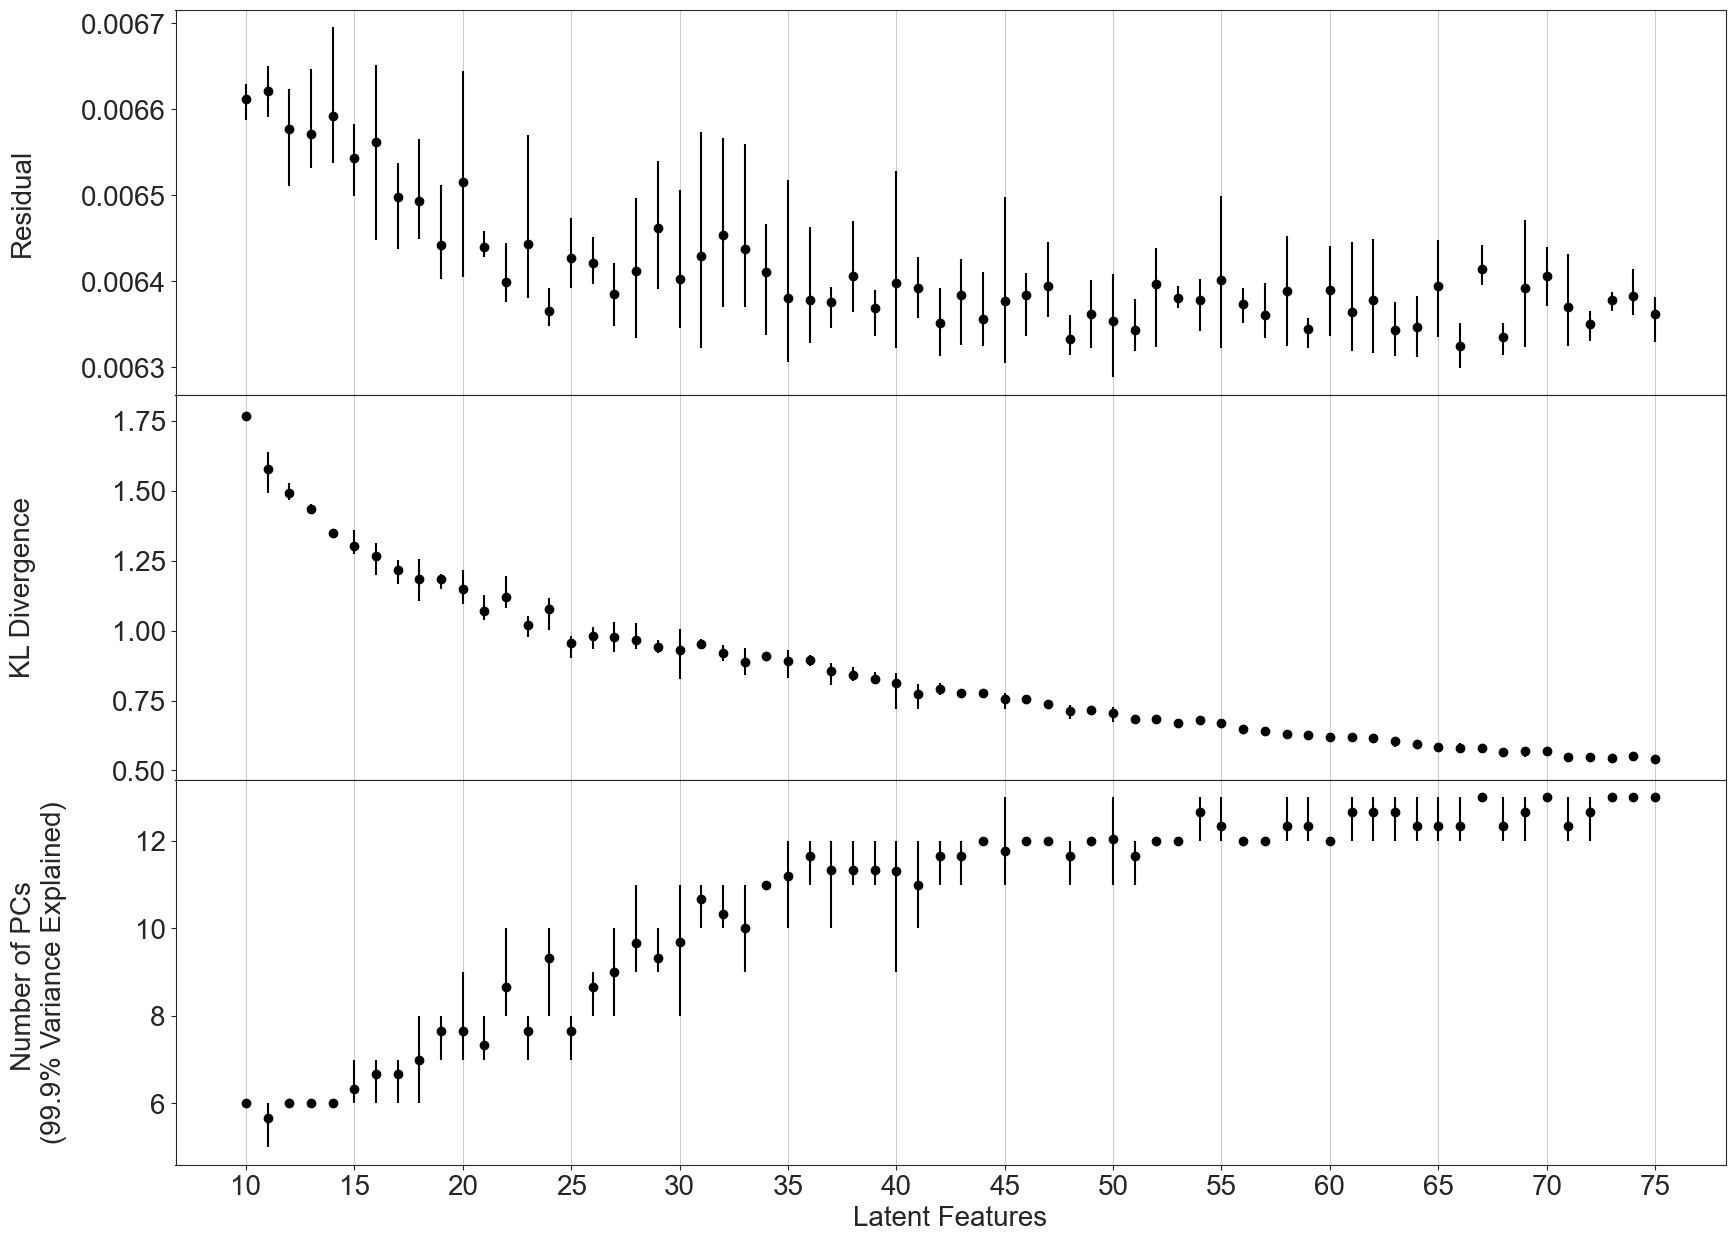
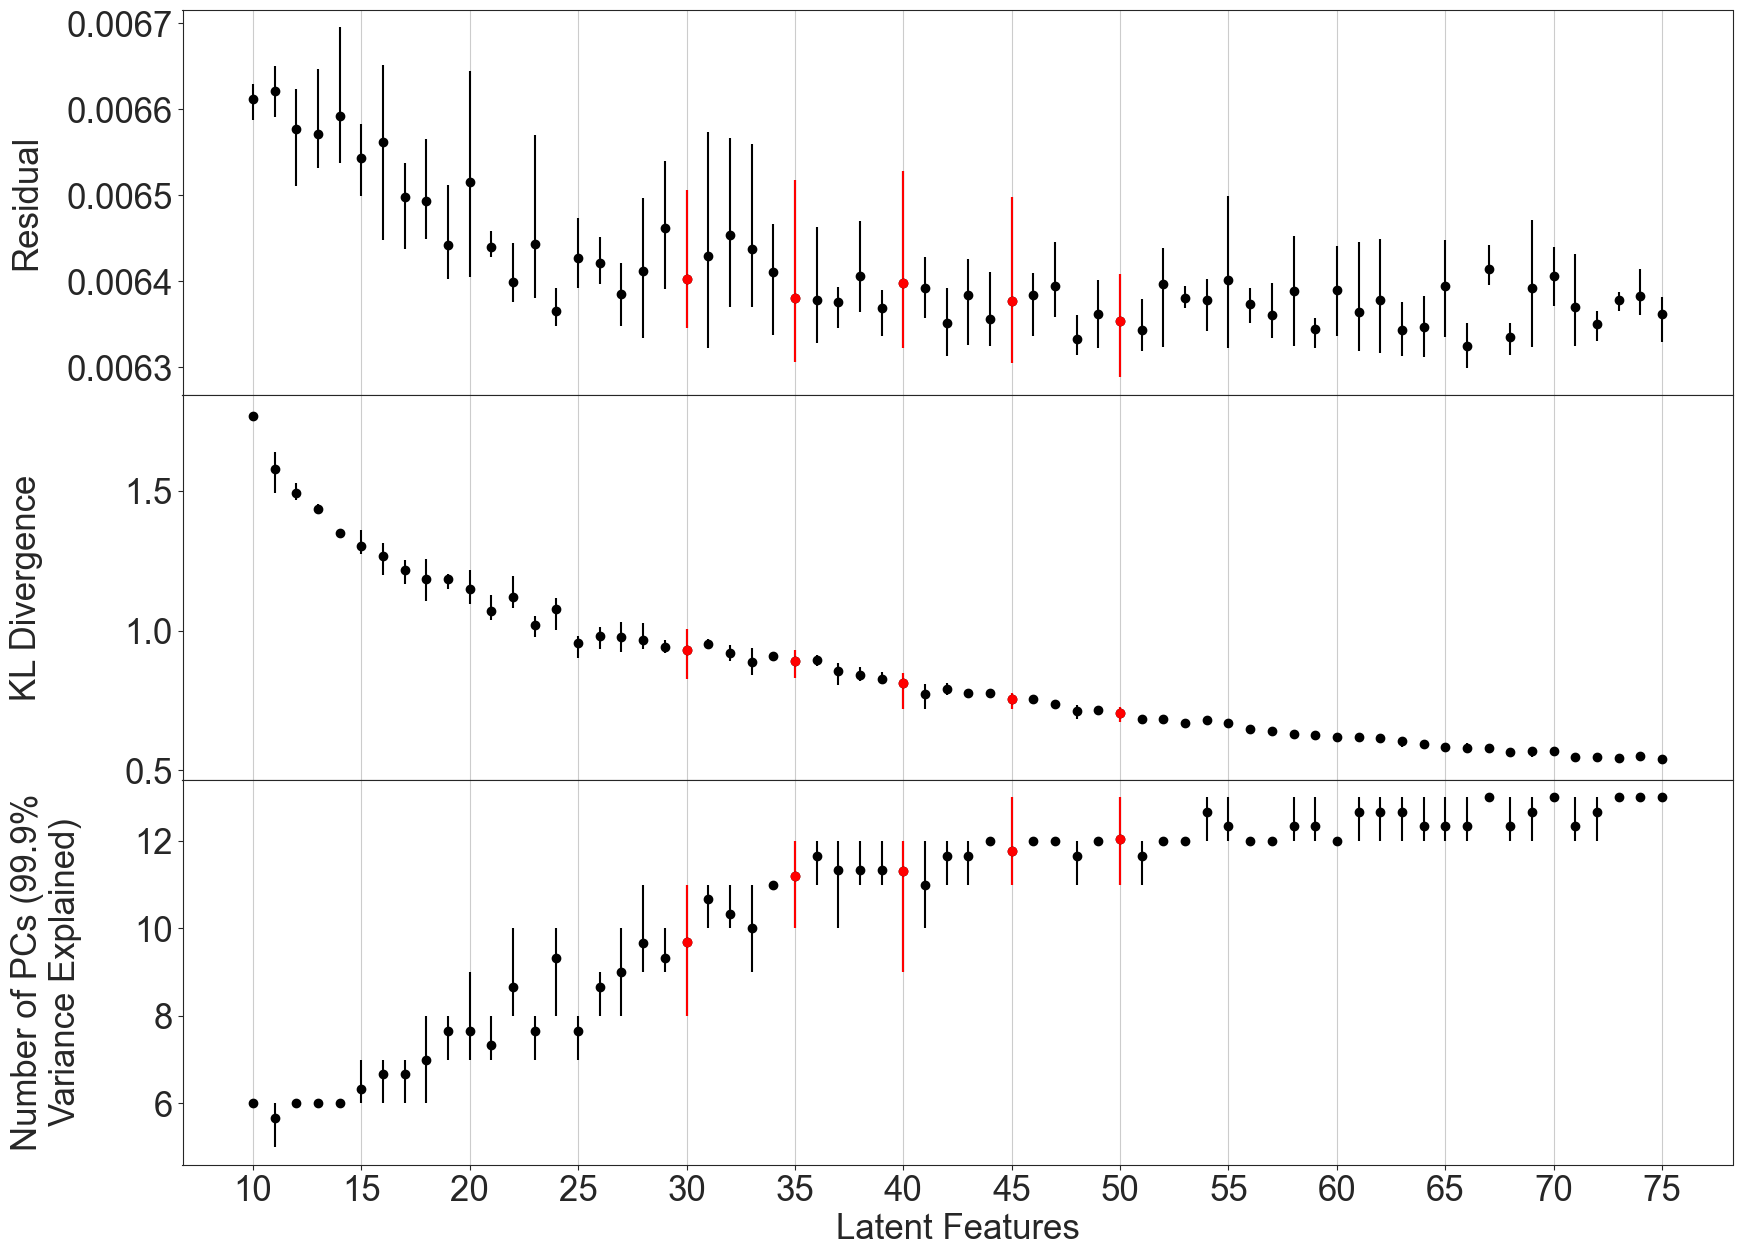
Code

diff --git a/optimal_features.py b/optimal_features.py
@@ -163,10 +163,10 @@ axs[1].yaxis.set_label_coords(-0.09, 0.5)
 
 # axs[2].set_ylabel("Number of Principal \nComponents", labelpad=10, fontsize=20, loc="center")
 # axs[2].set_ylabel("Number of Principal \nComponents Contributing \nto 99.9% Variance", labelpad=10, fontsize=20, loc="center")
-axs[2].set_ylabel("Number of PCs \n(99.9% Variance Explained)", labelpad=10, fontsize=25, loc="center")
+axs[2].set_ylabel("Number of PCs (99.9%\nVariance Explained)", labelpad=10, fontsize=25, loc="center")
 # axs[2].yaxis.set_label_coords(-0.068, 0.5)
 # axs[2].yaxis.set_label_coords(-0.098, 0.5)
-axs[2].yaxis.set_label_coords(-0.07, 0.5)
+axs[2].yaxis.set_label_coords(-0.065, 0.5)
 # axs[2].yaxis.set_label_coords(-0.1, 0.5)
 
 axs[0].tick_params(axis="both", labelsize=25)
@@ -213,7 +213,8 @@ axs[2].grid(axis="x")
 
 fig.subplots_adjust(hspace=0.0)
 
-plt.savefig("Variational Eagle/Plots/optimal_features_75_residual_mean_2", bbox_inches="tight")
+plt.savefig("Variational Eagle/Plots/optimal_features_75_residual_mean", bbox_inches="tight")
+plt.savefig("Variational Eagle/Plots/optimal_features_75_residual_mean.pdf", bbox_inches="tight")
 plt.show()
 
 

diff --git a/correlation_flows.py b/correlation_flows.py
@@ -258,15 +258,15 @@ print(correlation_text_df)
 # order each of the columns (remove the number corresponding to each feature)
 
 # order the original dataframe
-# correlation_df = pd.DataFrame({col: sorted(correlation_df[col], reverse=True) for col in correlation_df.columns})
+correlation_df = pd.DataFrame({col: sorted(correlation_df[col], reverse=True) for col in correlation_df.columns})
 
-# # order the annotation dataframe
-# for col in correlation_text_df.columns:
-#     correlation_text_df[col] = correlation_text_df[col].iloc[
-#         correlation_text_df[col].apply(lambda x: float(x.split(': ')[1])).sort_values(ascending=False).index
-#     ].values
-#
-# print(correlation_text_df)
+# order the annotation dataframe
+for col in correlation_text_df.columns:
+    correlation_text_df[col] = correlation_text_df[col].iloc[
+        correlation_text_df[col].apply(lambda x: float(x.split(': ')[1])).sort_values(ascending=False).index
+    ].values
+
+print(correlation_text_df)
 
 
 
